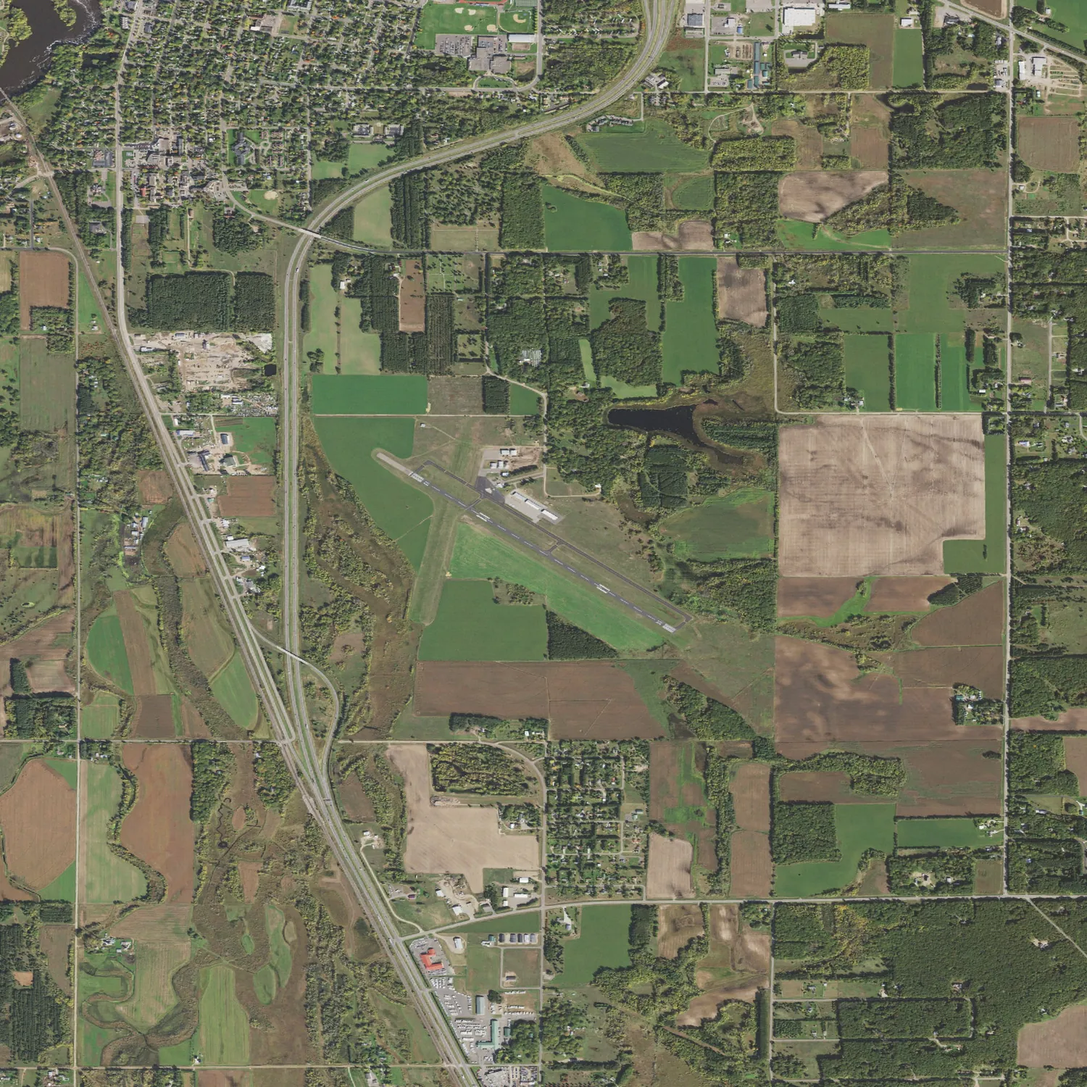
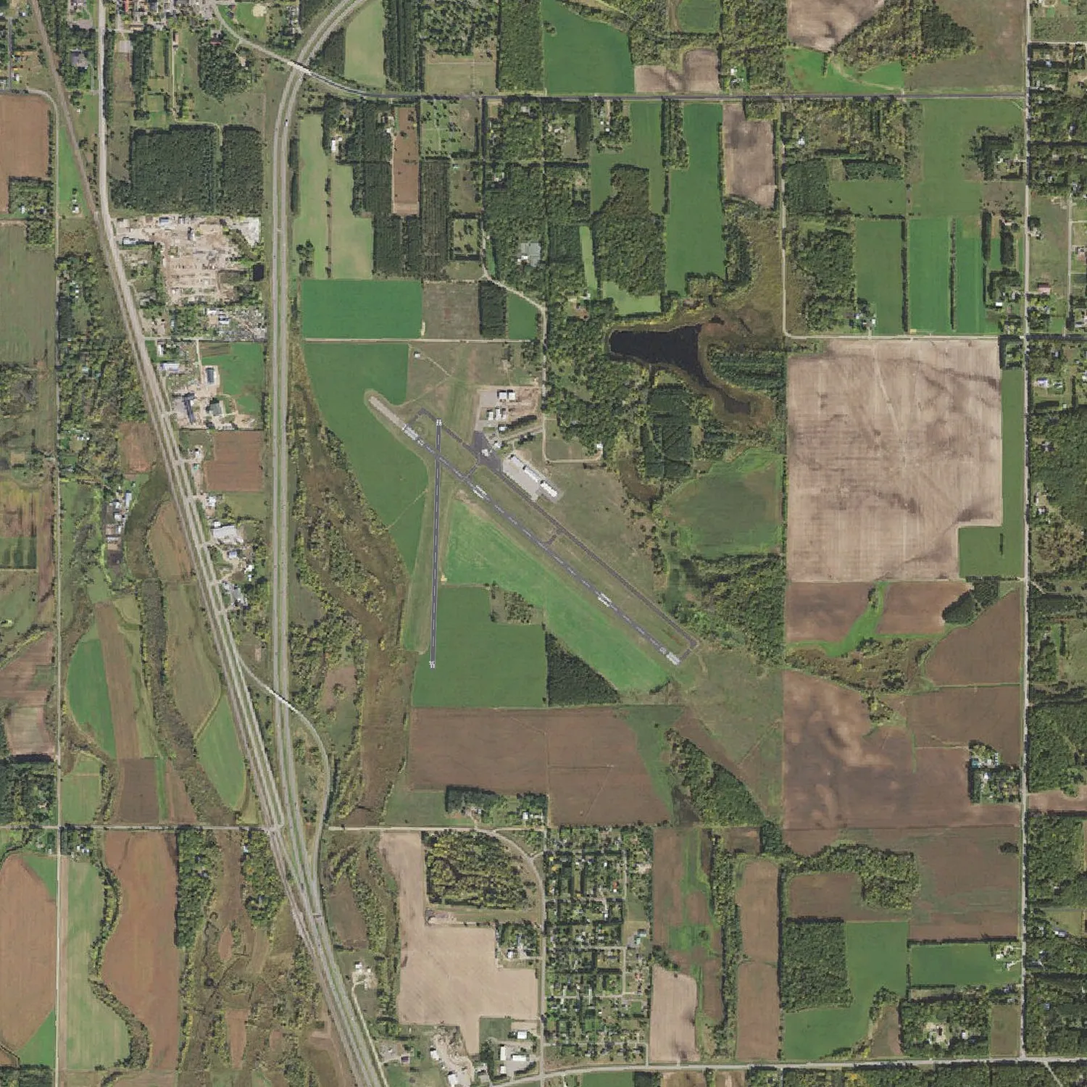
Changes

diff --git a/src/lib/site-data.ts b/src/lib/site-data.ts
@@ -108,7 +108,7 @@ export const fleet = [
 // field elevation, pattern altitude, active runway and pattern direction.
 // Runway endpoints are measured on each USGS aerial (1500 x 1500 px).
 export const airportTraffic = {
-  KLXL: { ident: "KLXL", elevation: 1123, tpaAgl: 1000, runway: "13", side: "left", threshold: { x: 520, y: 625 }, end: { x: 948, y: 860 }, offset: 330, extension: 170, aircraft: ["N6717A", "N8570B", "N3353P"] },
+  KLXL: { ident: "KLXL", elevation: 1123, tpaAgl: 1000, runway: "13", side: "left", threshold: { x: 566, y: 597 }, end: { x: 932, y: 911 }, offset: 330, extension: 170, aircraft: ["N6717A", "N8570B", "N3353P"] },
   "18V": { ident: "18V", elevation: 4965, tpaAgl: 1000, runway: "15", side: "left", threshold: { x: 733, y: 632 }, end: { x: 840, y: 950 }, offset: 300, extension: 150, aircraft: ["N7108G", "N6641F"] },
   P52: { ident: "P52", elevation: 3560, tpaAgl: 800, runway: "14", side: "left", threshold: { x: 680, y: 590 }, end: { x: 885, y: 925 }, offset: 300, extension: 150, aircraft: ["N8570B", "N11059"] },
 } as const satisfies Record<string, import("./traffic-pattern").PatternAirport>;
